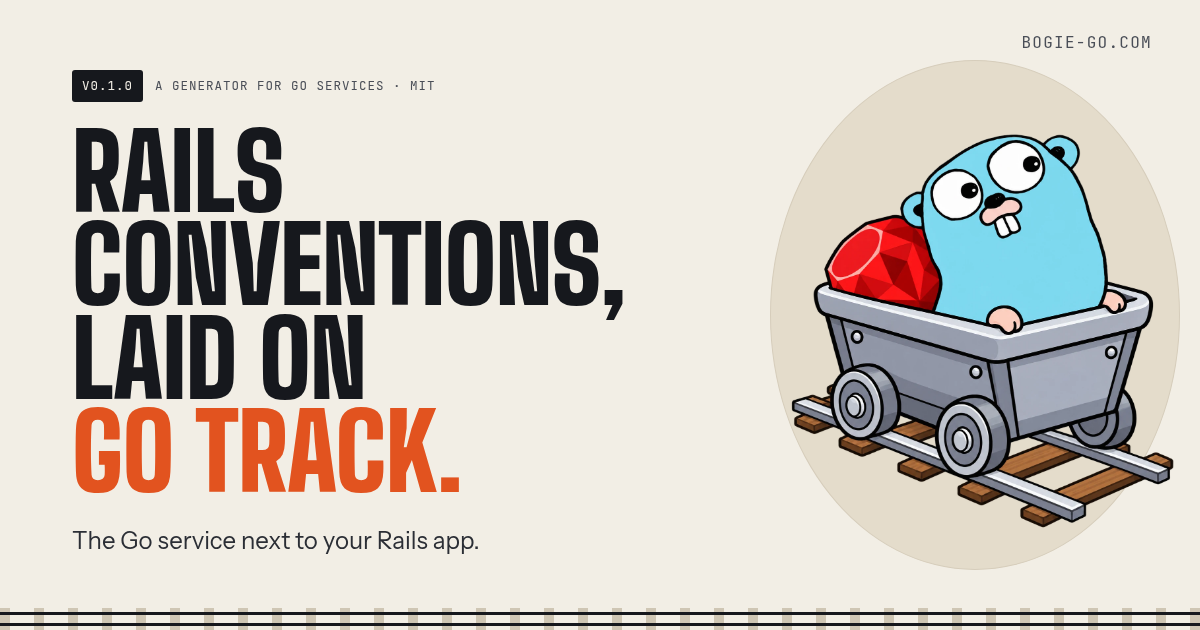
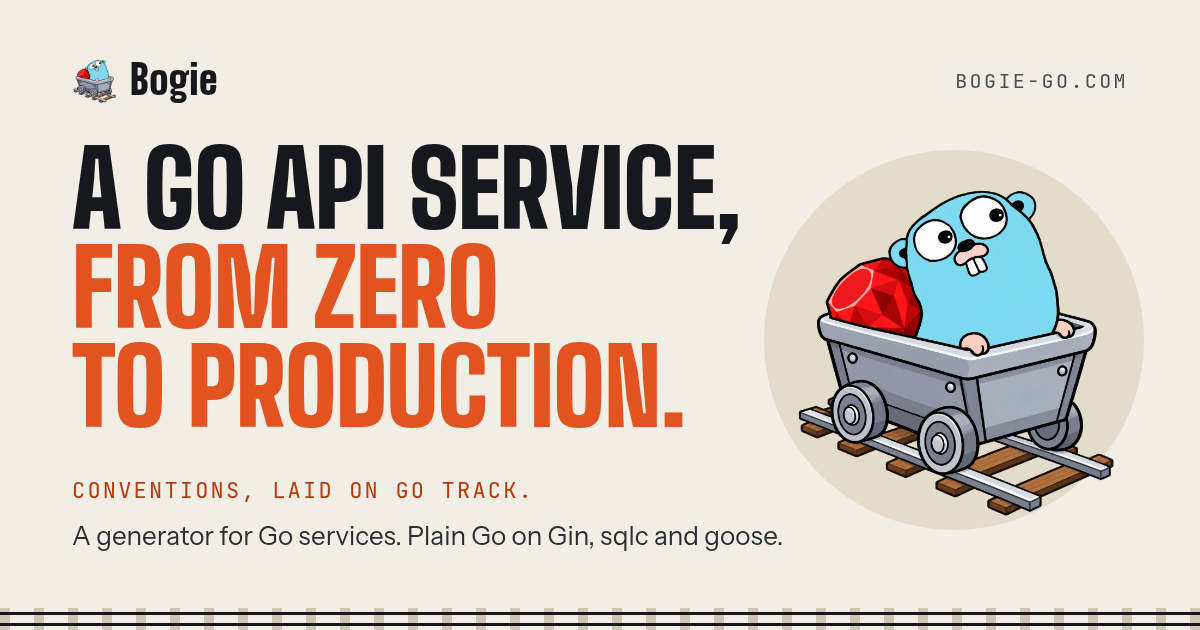
Site: redraw og.png with the current home headline (no version number) (#21)
* Docs: v0.6.8 — releases v0.6.3 to v0.6.8, upgrading v0.5.5 to v0.6.8, deploy job role, uuid and references notes

* Site: redraw og.png with the current home headline, no version number

The old image still showed v0.1.6 and the earlier tagline. The new one is
rendered from design/og-source.html (the headline, brand and mascot, no
version, so it can't go stale). og:title and og:description already match
the home <title> and meta description exactly.

---------

diff --git a/design/og-source.html b/design/og-source.html
@@ -1,0 +1,33 @@
+<!doctype html>
+<!-- Source for /og.png (1200x630). Render with:
+     google-chrome --headless --window-size=1200,630 --hide-scrollbars --screenshot=og.png file:///.../design/og-source.html
+     No version number here on purpose: the image is cached by social sites and would go stale. -->
+<html lang="en"><head><meta charset="utf-8"><meta name="robots" content="noindex"><title>og source</title>
+<link rel="stylesheet" href="../fonts.css">
+<style>
+*{box-sizing:border-box}
+html,body{margin:0;width:1200px;height:630px;overflow:hidden}
+body{background:#F2EEE5;color:#16181D;font-family:'Instrument Sans',sans-serif;position:relative}
+.brand{position:absolute;left:72px;top:56px;display:flex;align-items:center;gap:14px}
+.brand img{width:44px;height:47px;object-fit:contain}
+.brand b{font-family:'Big Shoulders Display',sans-serif;font-weight:900;font-size:40px;letter-spacing:.01em}
+.url{position:absolute;right:72px;top:68px;font-family:'JetBrains Mono',monospace;font-size:20px;letter-spacing:.12em;text-transform:uppercase;color:#4A4E57}
+h1{position:absolute;left:72px;top:140px;margin:0;white-space:nowrap;font-family:'Big Shoulders Display',sans-serif;font-weight:900;text-transform:uppercase;font-size:104px;line-height:.95;letter-spacing:-.005em}
+h1 span{color:#E2531F}
+.eyebrow{position:absolute;left:72px;top:476px;font-family:'JetBrains Mono',monospace;font-size:22px;letter-spacing:.1em;text-transform:uppercase;color:#B83A0B}
+.sub{position:absolute;left:72px;top:520px;font-size:26px;color:#2B2E35}
+.plate{position:absolute;right:56px;top:150px;width:380px;height:380px;border-radius:50%;background:#E4DCCB;display:flex;align-items:center;justify-content:center}
+.plate img{width:330px;height:auto}
+.track{position:absolute;left:0;right:0;bottom:0;height:22px;background:
+ linear-gradient(#16181D,#16181D) 0 4px/100% 3px no-repeat,
+ linear-gradient(#16181D,#16181D) 0 15px/100% 3px no-repeat,
+ repeating-linear-gradient(90deg,#CFC6B4 0 10px,transparent 10px 34px) 0 0/100% 22px no-repeat}
+</style></head><body>
+<div class="brand"><img src="../favicon.png" alt=""><b>Bogie</b></div>
+<div class="url">bogie-go.com</div>
+<h1>A Go API service,<br><span>from zero<br>to production.</span></h1>
+<div class="eyebrow">Conventions, laid on Go track.</div>
+<div class="sub">A generator for Go services. Plain Go on Gin, sqlc and goose.</div>
+<div class="plate"><img src="../bogie.webp" alt=""></div>
+<div class="track"></div>
+</body></html>
